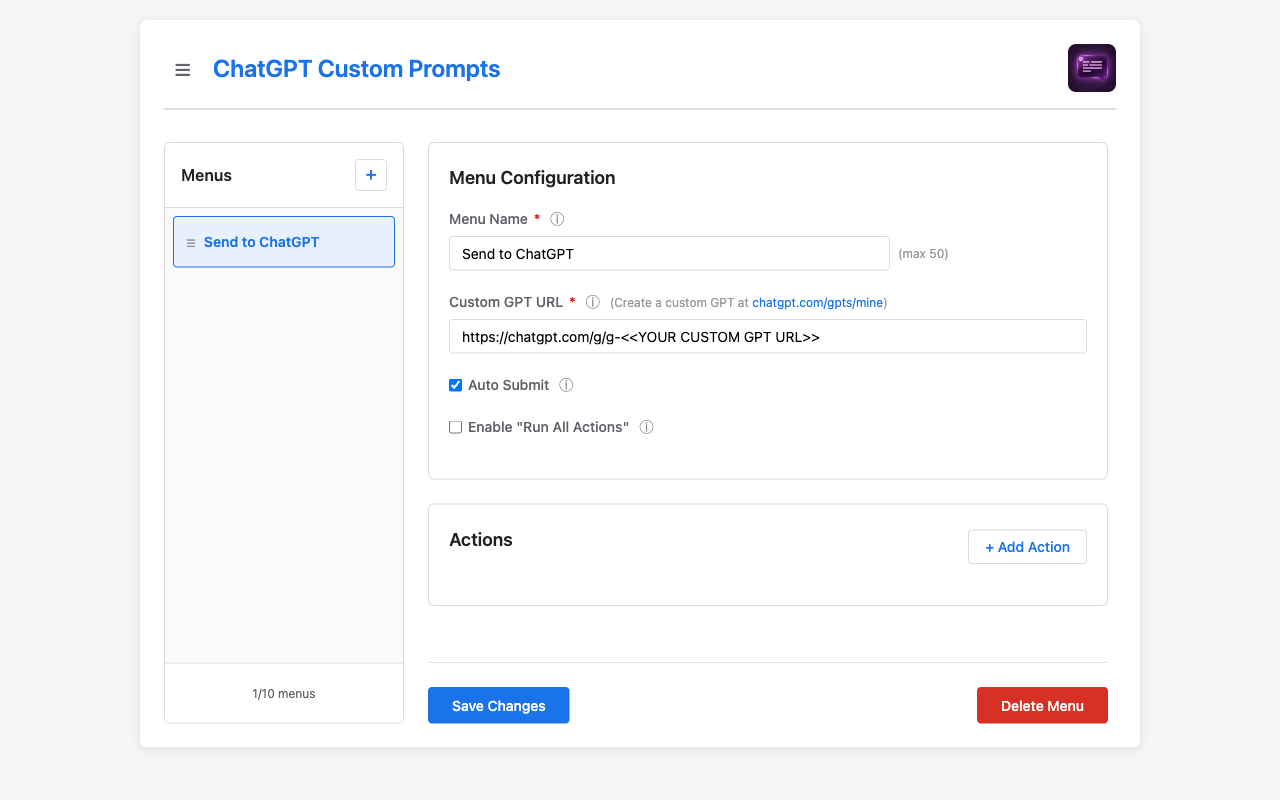
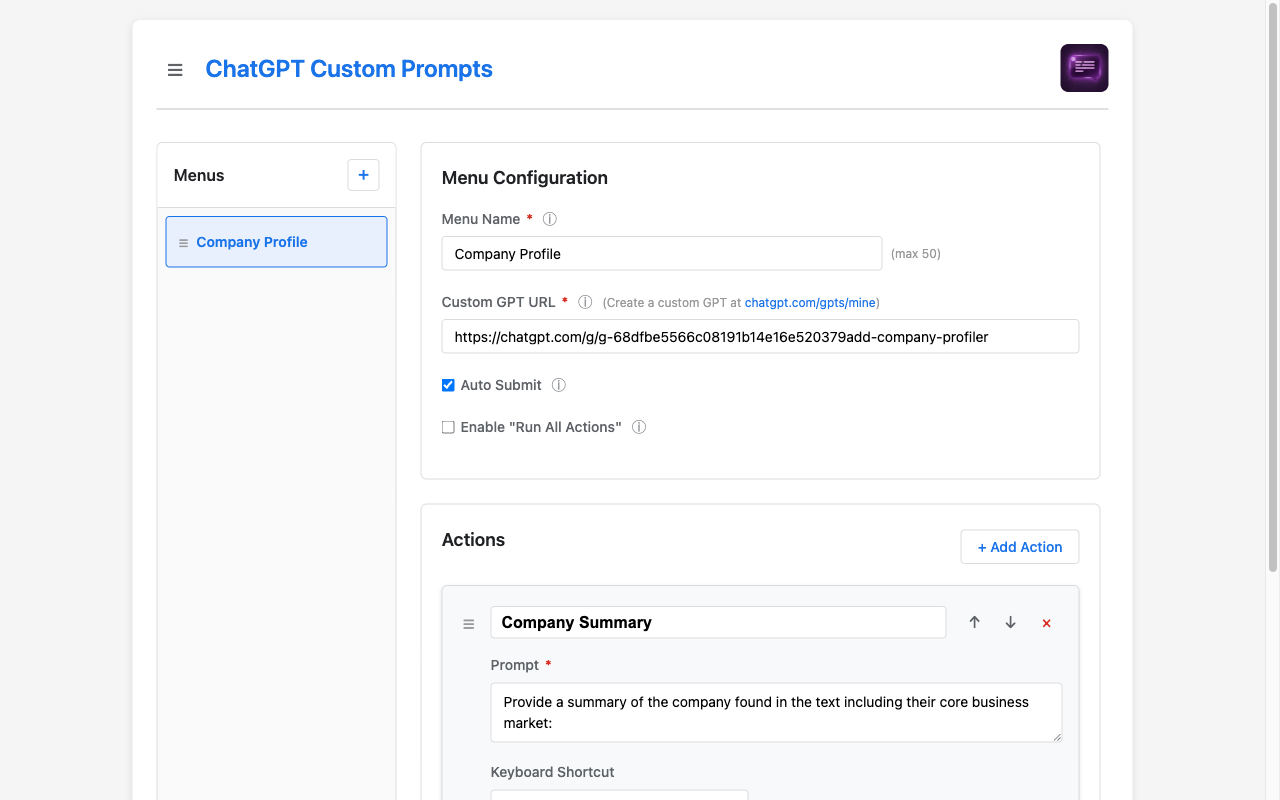
Update screenshot script with Company Profile and Job Search menus
- Configure first menu as "Company Profile" with company profiler GPT URL
  - Add "Company Summary" action with Alt+Shift+O (⌥⇧O on Mac)
  - Add "Company Revenue" action with Alt+Shift+P (⌥⇧P on Mac)
- Add second menu "Job Search" with job search GPT URL
  - Enable "Run All Actions" with Alt+Shift+H shortcut (⌥⇧H on Mac)
  - Add "Job Summary" action with Alt+Shift+J (⌥⇧J on Mac)
- Wait 3 seconds after saves for success banners to disappear
- Scroll to top before Screenshot 1 for clean overview
- Rename screenshot 2: 02-menu-with-action.png → 02-menu-with-actions.png
- All screenshots show Mac-style keyboard shortcuts (⌥⇧ format)

Screenshots now demonstrate:
- Single menu with 1 action (Screenshot 1)
- Single menu with 2 actions (Screenshot 2)
- Multiple menus with Run All feature (Screenshots 3 & 4)

🤖 Generated with [Claude Code](https://claude.com/claude-code)

diff --git a/scripts/take-store-screenshots.js b/scripts/take-store-screenshots.js
@@ -49,11 +49,59 @@ async function takeStoreScreenshots() {
   const extensionId = background.url().split('/')[2];
   console.log(`✓ Extension loaded with ID: ${extensionId}\n`);
 
-  // Screenshot 1: Options page overview
-  console.log('📸 Screenshot 1: Options page overview...');
+  // Configure the default menu with company profiler data
+  console.log('⚙  Configuring menu with company profiler data...');
   await page.goto(`chrome-extension://${extensionId}/options.html`);
   await page.waitForLoadState('networkidle');
   await page.waitForTimeout(500); // Let UI settle
+
+  // Fill in menu name
+  const menuNameInput = page.locator('#menuName');
+  await menuNameInput.fill('Company Profile');
+
+  // Fill in GPT URL
+  const gptUrlInput = page.locator('#customGptUrl');
+  await gptUrlInput.fill('https://chatgpt.com/g/g-68dfbe5566c08191b14e16e520379add-company-profiler');
+
+  // Add first action: Company Summary
+  const addActionBtn = page.locator('#add-action');
+  await addActionBtn.click();
+  await page.waitForTimeout(500);
+
+  const actionItems = page.locator('.action-item');
+  const firstAction = actionItems.first();
+  await firstAction.locator('.action-title').fill('Company Summary');
+  await firstAction.locator('.action-prompt').fill('Provide a summary of the company found in the text including their core business market:');
+
+  // Add keyboard shortcut (Alt+Shift+O - will display as ⌥⇧O on Mac)
+  let captureBtn = firstAction.locator('.btn-capture');
+  await captureBtn.click();
+  await page.waitForTimeout(200);
+
+  await page.keyboard.down('Alt');
+  await page.keyboard.down('Shift');
+  await page.keyboard.press('KeyO');
+  await page.keyboard.up('Shift');
+  await page.keyboard.up('Alt');
+  await page.waitForTimeout(300);
+
+  // Make sure first action is enabled (should be by default)
+  const firstEnabledCheckbox = firstAction.locator('.action-enabled');
+  await firstEnabledCheckbox.check();
+
+  // Save the menu configuration so the sidebar updates
+  const saveBtn = page.locator('#save');
+  await saveBtn.click();
+  await page.waitForTimeout(3000); // Wait 3 seconds for save banner to disappear
+
+  console.log('   ✓ Menu configured with first action and saved\n');
+
+  // Screenshot 1: Options page overview
+  console.log('📸 Screenshot 1: Options page overview with first action...');
+
+  // Scroll back to top to show clean overview
+  await page.evaluate(() => window.scrollTo(0, 0));
+  await page.waitForTimeout(300);
 
   await page.screenshot({
     path: path.join(screenshotsDir, '01-options-page-overview.png'),
@@ -61,26 +109,95 @@ async function takeStoreScreenshots() {
   });
   console.log('   ✓ Saved: 01-options-page-overview.png\n');
 
-  // Screenshot 2: Menu with actions
-  console.log('📸 Screenshot 2: Menu with actions...');
-  // Add a sample action to make it more interesting
-  const addActionBtn = page.locator('#add-action');
+  // Screenshot 2: Menu with two actions
+  console.log('📸 Screenshot 2: Menu with two company profiler actions...');
+
+  // Add second action: Company Revenue
   await addActionBtn.click();
   await page.waitForTimeout(500);
 
-  // Fill in the action using class selectors
-  const actionItems = page.locator('.action-item');
-  const firstAction = actionItems.first();
-  await firstAction.locator('.action-title').fill('Summarize Text');
-  await firstAction.locator('.action-prompt').fill('Please provide a concise summary of the selected text, highlighting the key points and main ideas.');
+  const secondAction = actionItems.nth(1);
+  await secondAction.locator('.action-title').fill('Company Revenue');
+  await secondAction.locator('.action-prompt').fill('Provide a 5-year prior and 5-year projected revenue analysis for the given company. Just provide the data, no details required');
 
-  // Add keyboard shortcut (Option-Shift-J = Alt+Shift+J in Chrome format)
-  // Click the capture button first
-  const captureBtn = firstAction.locator('.btn-capture');
+  // Add keyboard shortcut (Alt+Shift+P - will display as ⌥⇧P on Mac)
+  captureBtn = secondAction.locator('.btn-capture');
   await captureBtn.click();
   await page.waitForTimeout(200);
 
-  // Simulate the shortcut key press (Alt+Shift+J)
+  await page.keyboard.down('Alt');
+  await page.keyboard.down('Shift');
+  await page.keyboard.press('KeyP');
+  await page.keyboard.up('Shift');
+  await page.keyboard.up('Alt');
+  await page.waitForTimeout(300);
+
+  // Make sure second action is enabled
+  const secondEnabledCheckbox = secondAction.locator('.action-enabled');
+  await secondEnabledCheckbox.check();
+
+  // Save the updated configuration
+  await saveBtn.click();
+  await page.waitForTimeout(3000); // Wait 3 seconds for save banner to disappear
+
+  // Scroll to show both actions nicely
+  await page.evaluate(() => window.scrollBy(0, 150));
+  await page.waitForTimeout(300);
+
+  await page.screenshot({
+    path: path.join(screenshotsDir, '02-menu-with-actions.png'),
+    fullPage: false,
+  });
+  console.log('   ✓ Saved: 02-menu-with-actions.png\n');
+
+  // Add second menu: Job Search
+  console.log('⚙  Adding second menu: Job Search...');
+  const addMenuBtn = page.locator('#add-menu');
+  await addMenuBtn.click();
+  await page.waitForTimeout(800);
+
+  // Click the second menu in the sidebar to select it
+  const menuItems = page.locator('.menu-item');
+  const secondMenu = menuItems.nth(1);
+  await secondMenu.click();
+  await page.waitForTimeout(500);
+
+  // Configure Job Search menu
+  await menuNameInput.fill('Job Search');
+  await gptUrlInput.fill('https://chatgpt.com/g/g-yourjobsearchurl');
+
+  // Enable "Run All Actions"
+  const runAllEnabledCheckbox = page.locator('#runAllEnabled');
+  await runAllEnabledCheckbox.check();
+  await page.waitForTimeout(300);
+
+  // Set Run All shortcut (Alt+Shift+H - will display as ⌥⇧H on Mac)
+  const runAllShortcutBtn = page.locator('#runAllShortcutBtn');
+  await runAllShortcutBtn.click();
+  await page.waitForTimeout(200);
+
+  await page.keyboard.down('Alt');
+  await page.keyboard.down('Shift');
+  await page.keyboard.press('KeyH');
+  await page.keyboard.up('Shift');
+  await page.keyboard.up('Alt');
+  await page.waitForTimeout(300);
+
+  // Add action: Job Summary
+  const jobAddActionBtn = page.locator('#add-action');
+  await jobAddActionBtn.click();
+  await page.waitForTimeout(500);
+
+  const jobActionItems = page.locator('.action-item');
+  const jobAction = jobActionItems.first();
+  await jobAction.locator('.action-title').fill('Job Summary');
+  await jobAction.locator('.action-prompt').fill('Summarize the job posting against my resume, skills, etc.:');
+
+  // Add keyboard shortcut (Alt+Shift+J - will display as ⌥⇧J on Mac)
+  const jobCaptureBtn = jobAction.locator('.btn-capture');
+  await jobCaptureBtn.click();
+  await page.waitForTimeout(200);
+
   await page.keyboard.down('Alt');
   await page.keyboard.down('Shift');
   await page.keyboard.press('KeyJ');
@@ -88,21 +205,22 @@ async function takeStoreScreenshots() {
   await page.keyboard.up('Alt');
   await page.waitForTimeout(300);
 
-  // Scroll down to show all action fields (shortcut, enabled checkbox, etc.)
-  await page.evaluate(() => window.scrollBy(0, 200));
-  await page.waitForTimeout(300);
+  // Make sure action is enabled
+  const jobEnabledCheckbox = jobAction.locator('.action-enabled');
+  await jobEnabledCheckbox.check();
 
-  await page.screenshot({
-    path: path.join(screenshotsDir, '02-menu-with-action.png'),
-    fullPage: false,
-  });
-  console.log('   ✓ Saved: 02-menu-with-action.png\n');
+  // Save the Job Search menu configuration
+  await saveBtn.click();
+  await page.waitForTimeout(3000); // Wait 3 seconds for save banner to disappear
+
+  console.log('   ✓ Job Search menu configured and saved\n');
 
   // Screenshot 3: Multiple menus
   console.log('📸 Screenshot 3: Multiple menus...');
-  const addMenuBtn = page.locator('#add-menu');
-  await addMenuBtn.click();
-  await page.waitForTimeout(800);
+
+  // Scroll to top to show clean view
+  await page.evaluate(() => window.scrollTo(0, 0));
+  await page.waitForTimeout(300);
 
   await page.screenshot({
     path: path.join(screenshotsDir, '03-multiple-menus.png'),
